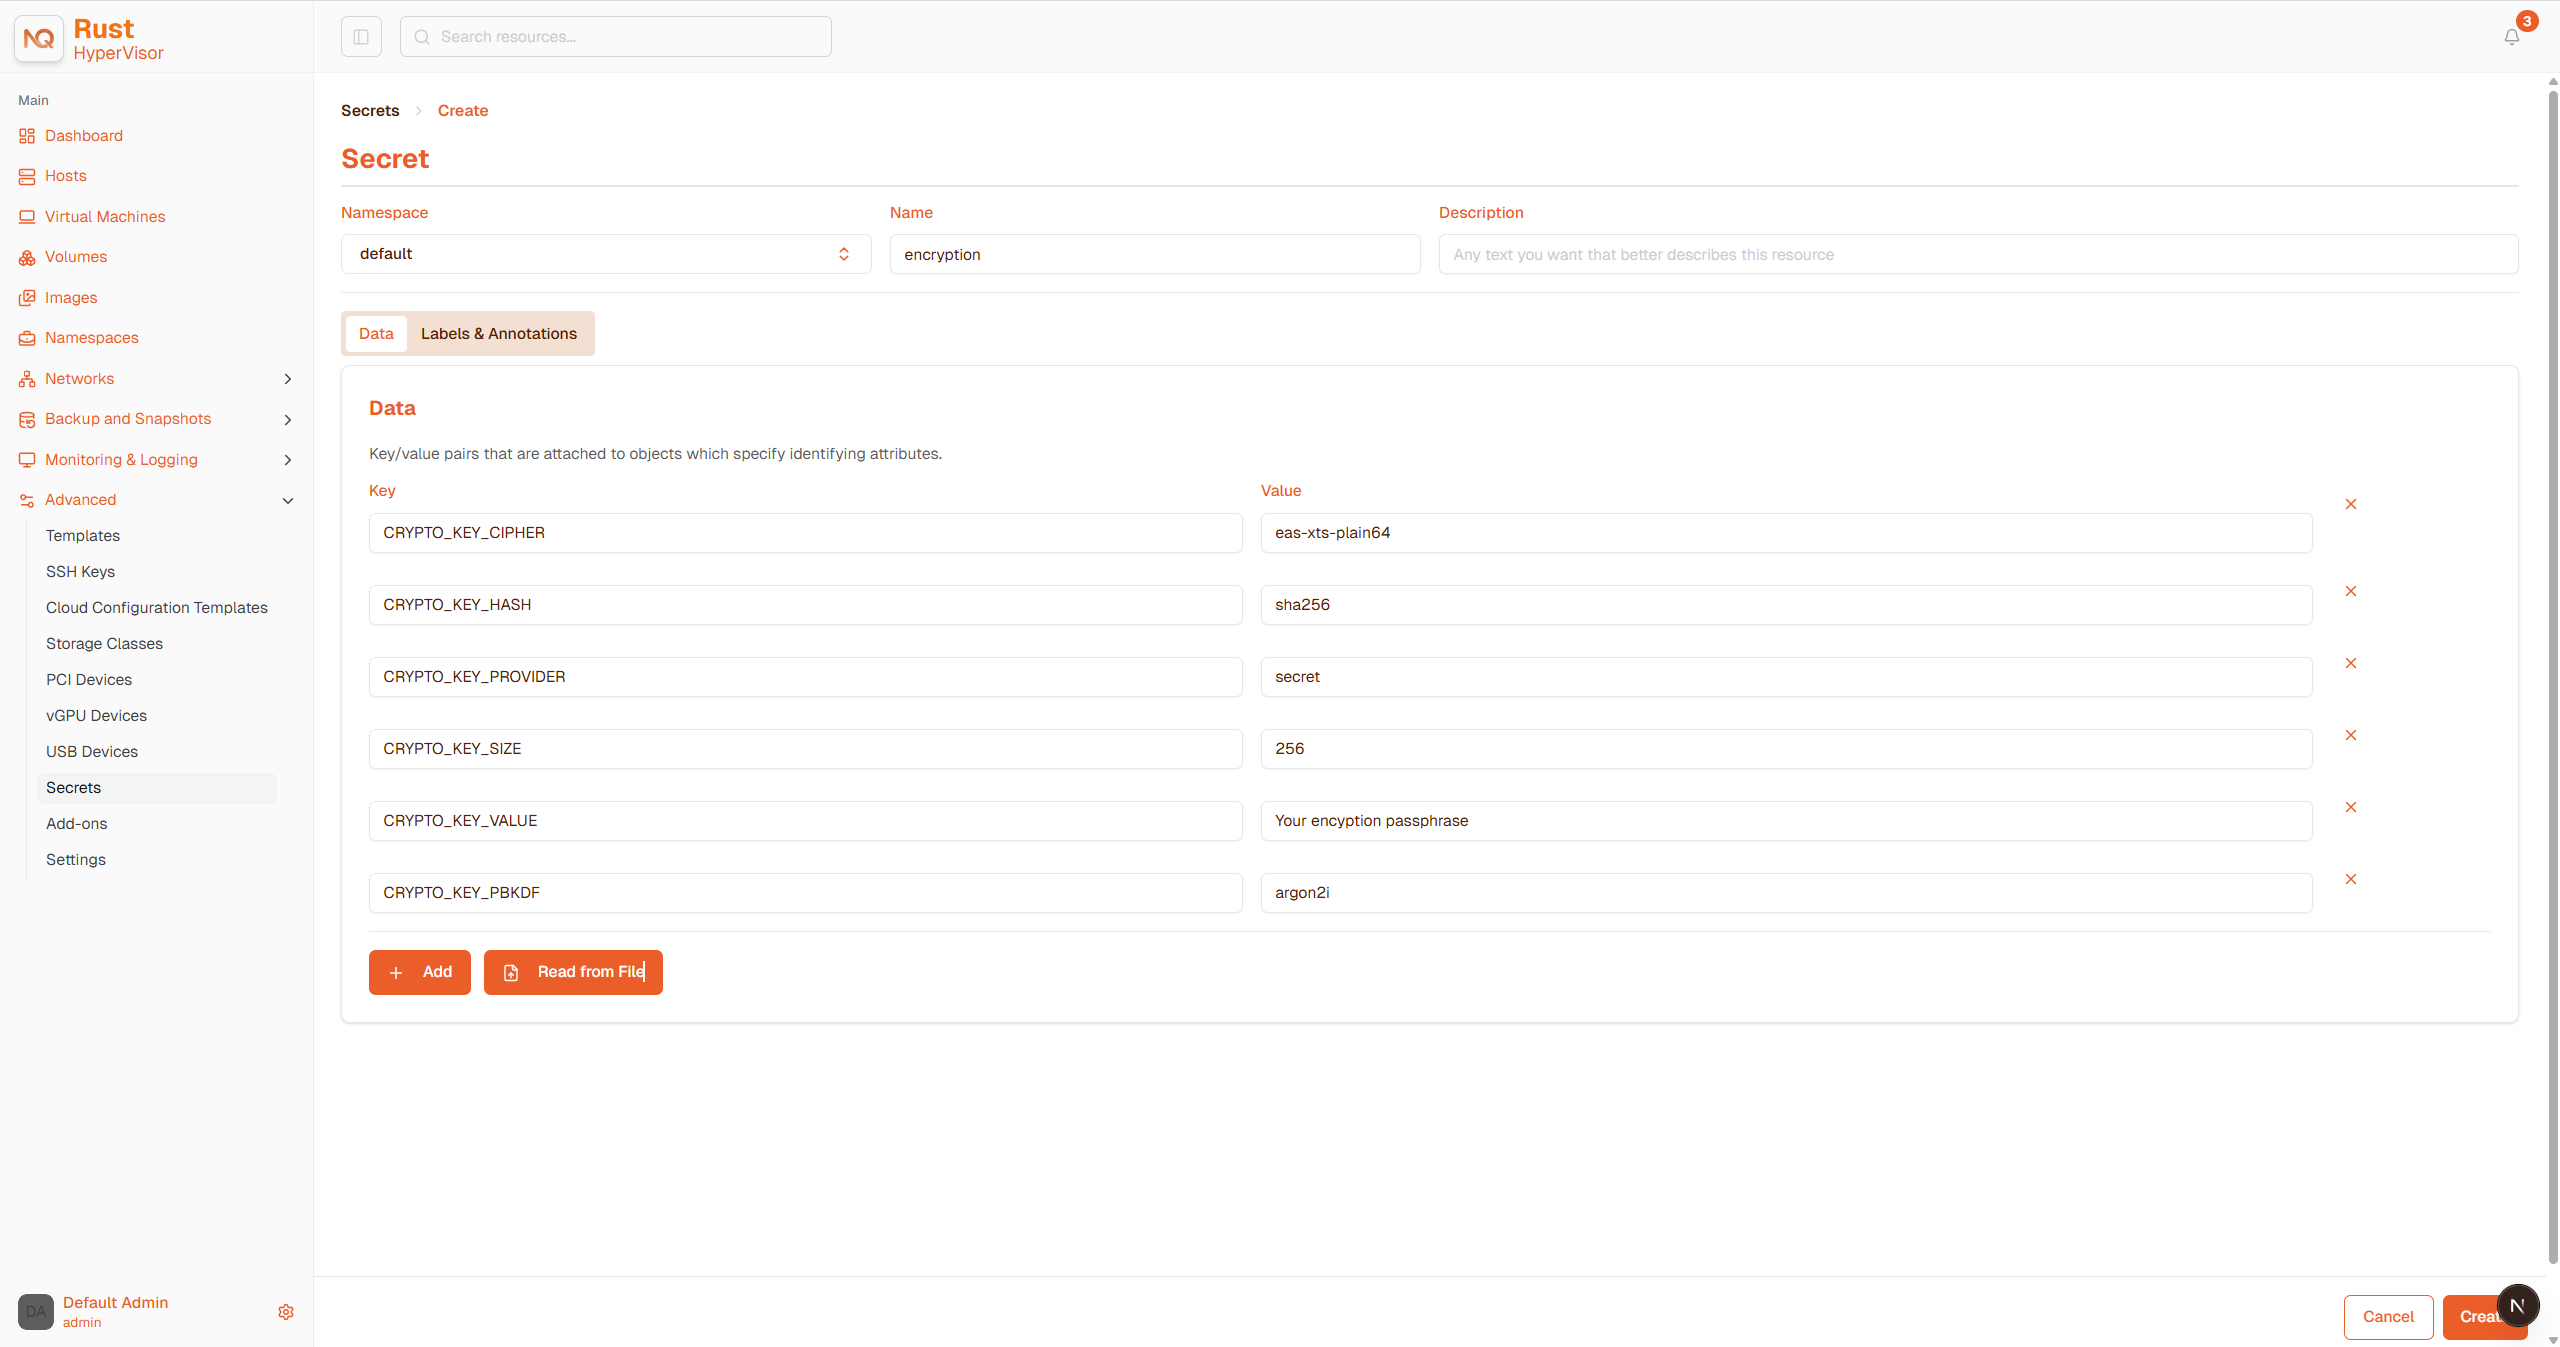
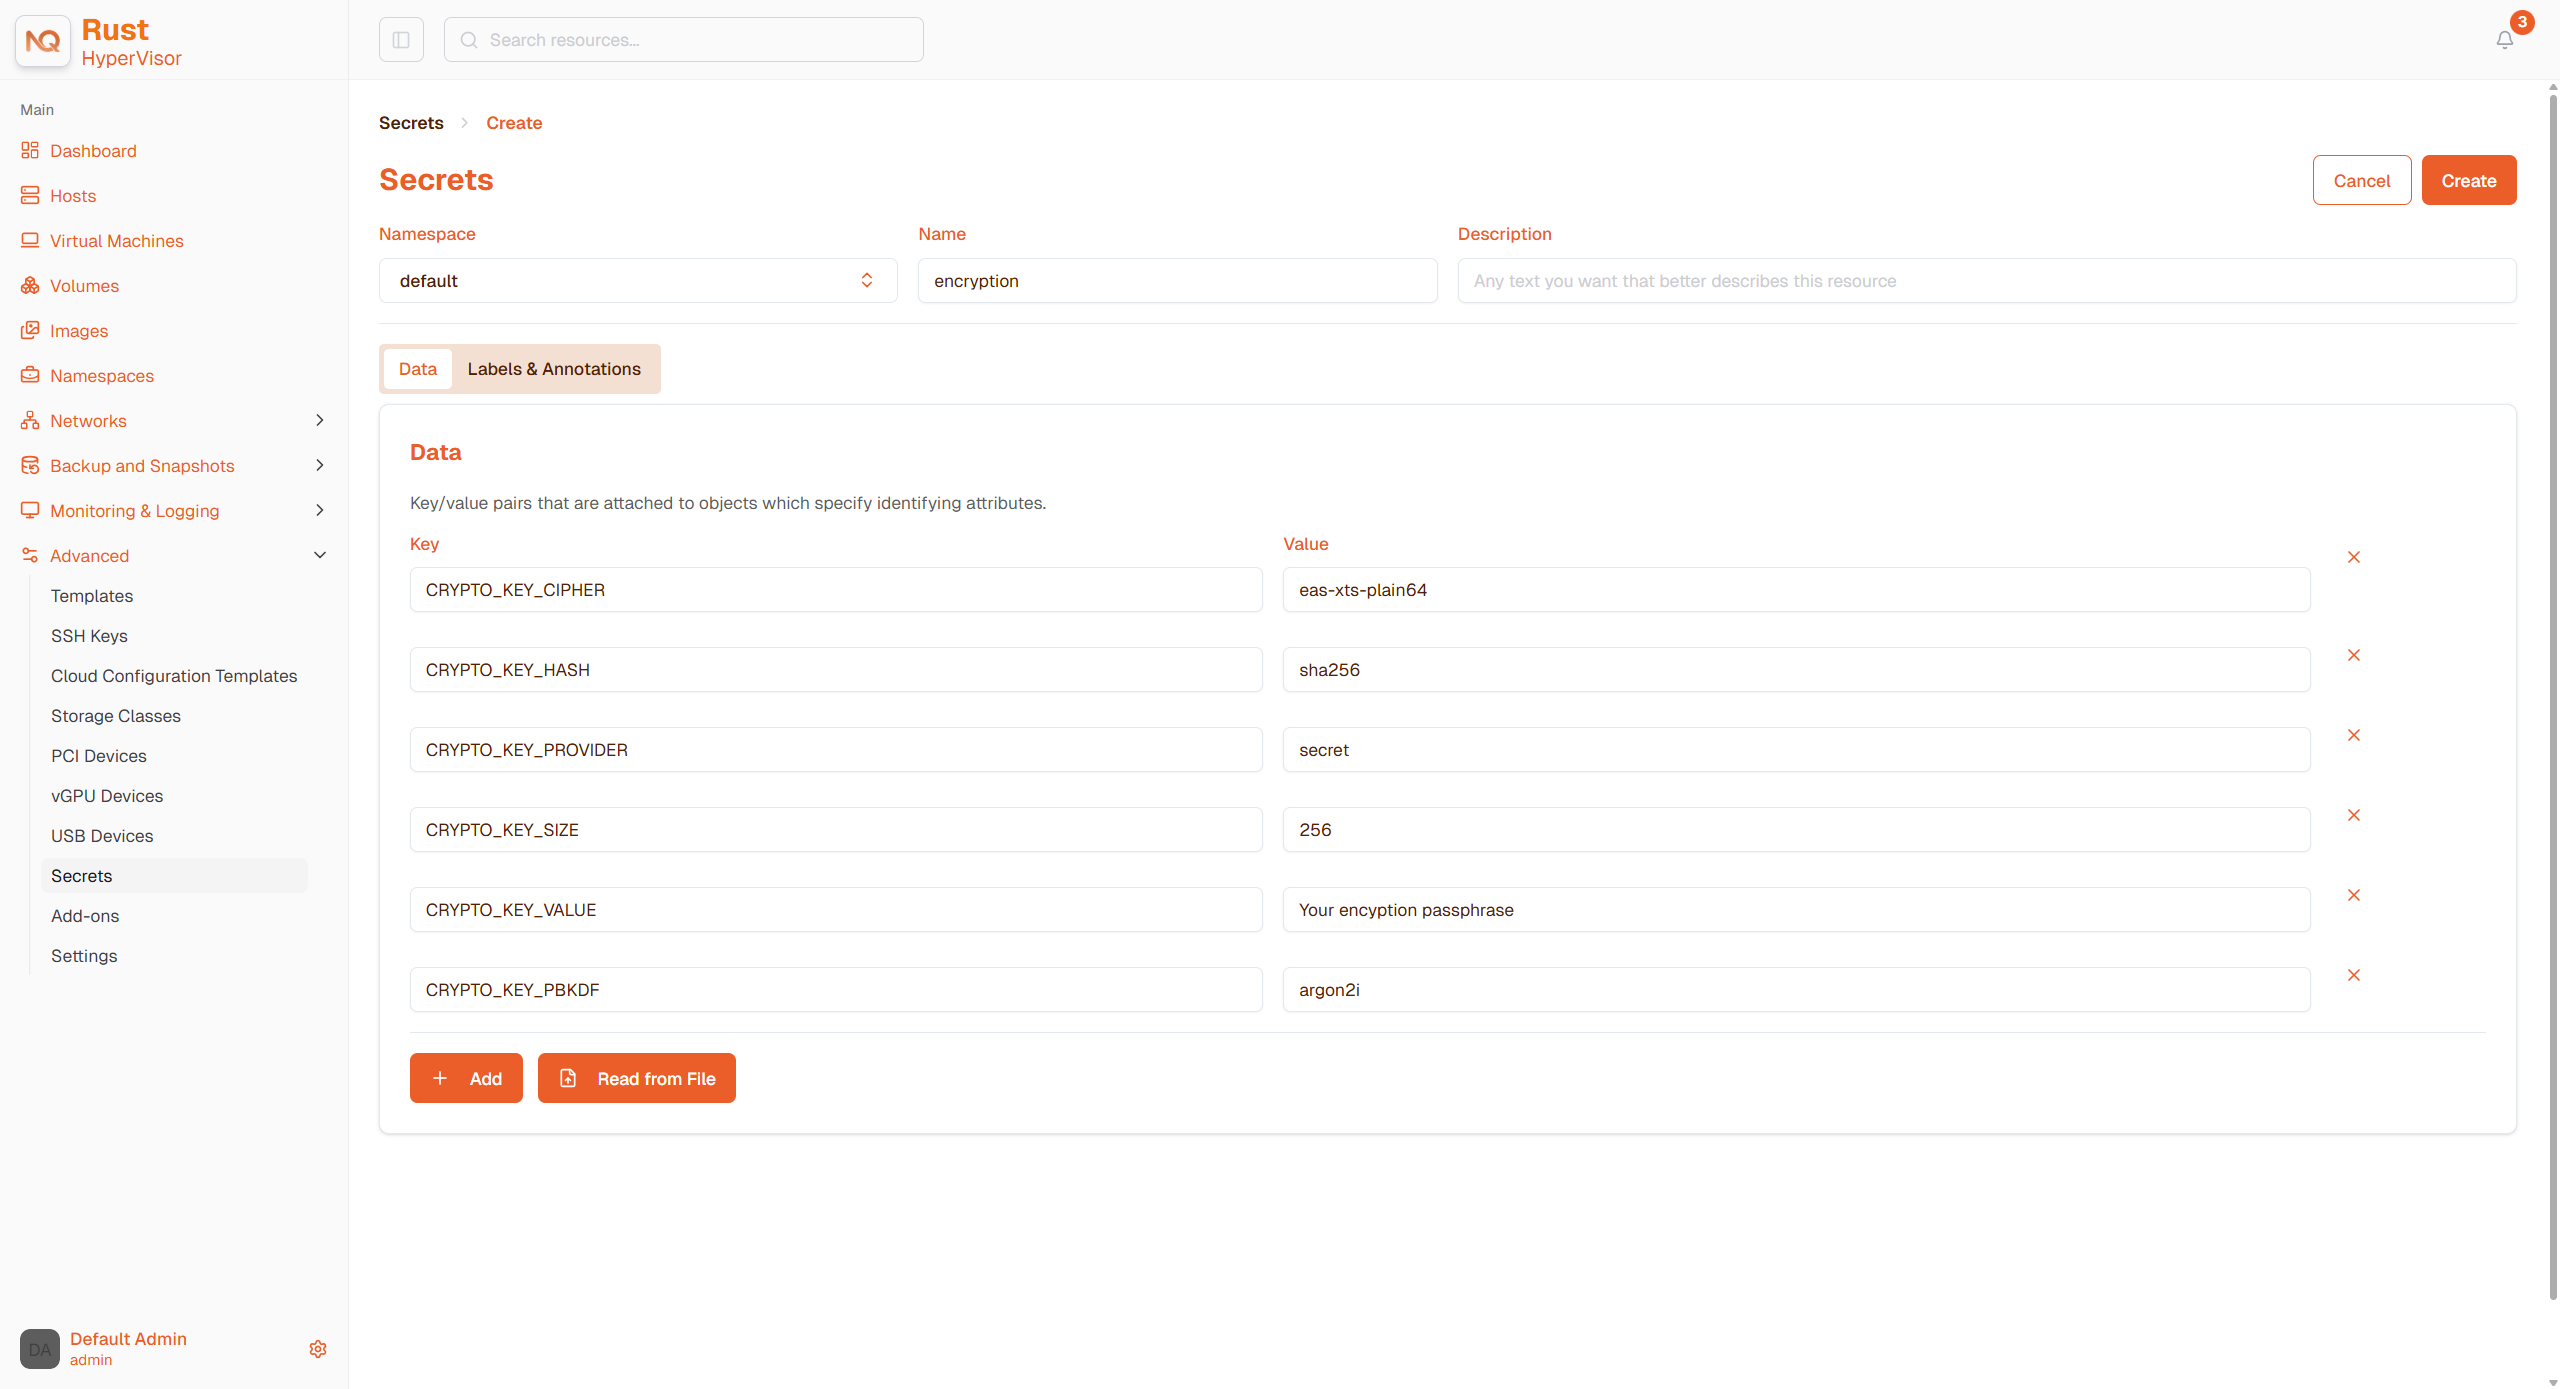
feat(images): add new images and update references from "Harvester" to "Hypervisor" in documentation

diff --git a/versioned_docs/version-v1.6/image/upload-image.md b/versioned_docs/version-v1.6/image/upload-image.md
@@ -4,7 +4,7 @@ sidebar_position: 1
 sidebar_label: Upload Images
 title: "Upload Images"
 keywords:
-  - Harvester
+  - Hypervisor
   - harvester
   - Rancher
   - rancher
@@ -34,7 +34,7 @@ To import virtual machine images in the **Images** page, enter a URL that can be
 
 ::: caution
 
-Large image files may cause memory issues in Harvester when you use third-party StorageClasses with download URLs that are hosted on servers that do not support HTTP range requests (for example, Python's `http.server`). For reliable downloads, use NGINX or Apache instead.
+Large image files may cause memory issues in Hypervisor when you use third-party StorageClasses with download URLs that are hosted on servers that do not support HTTP range requests (for example, Python's `http.server`). For reliable downloads, use NGINX or Apache instead.
 
 This issue is fixed in v1.6.1.
 
@@ -99,11 +99,11 @@ Currently, qcow2, raw, and ISO images are supported.
 
 You can upload images from the [**Multi-Cluster Management**](../rancher/virtualization-management.md#importing-harvester-cluster) screen on the **Rancher UI**. When the status of an image is *Uploading* but the progress indicator displays *0%* for an extended period, check the HTTP response status code. *413* indicates that the size of the request body exceeds the limit.
 
-![](/img/v1.3/img-413-code.png)
+![](/img/v1.3/image-hv/img-413-code.png)
 
 The maximum request body size should be specific to the cluster that is hosting Rancher (for example, RKE2 clusters have a default limit of 1 MB but no such limit exists in K3s clusters).
 
-The current workaround is to upload images from the **Harvester UI**. If you choose to upload images from the Rancher UI, you may need to configure related settings on the ingress server (for example, [`proxy-body-size`](https://kubernetes.github.io/ingress-nginx/user-guide/nginx-configuration/annotations/#custom-max-body-size) in NGINX).
+The current workaround is to upload images from the **Hypervisor UI**. If you choose to upload images from the Rancher UI, you may need to configure related settings on the ingress server (for example, [`proxy-body-size`](https://kubernetes.github.io/ingress-nginx/user-guide/nginx-configuration/annotations/#custom-max-body-size) in NGINX).
 
 If Rancher is deployed on an RKE2 cluster, perform the following steps:
 
@@ -116,7 +116,7 @@ If Rancher is deployed on an RKE2 cluster, perform the following steps:
 2. Specify a value for `nginx.ingress.kubernetes.io/proxy-body-size`.
 
   Example:
-  ![](/img/v1.3/img-ingress-client-body.png)
+  ![](/img/v1.3/image-hv/img-ingress-client-body.png)
 
 3. Delete the stuck image, and then restart the upload process.
 
@@ -126,7 +126,7 @@ If you upload a very large image (over 10 GB) from the **Multi-Cluster Managemen
 
 This behavior is related to *proxy-request-buffering* in the ingress configuration, which is also specific to the cluster that is hosting Rancher.
 
-The current workaround is to upload images from the **Harvester UI**. If you choose to upload images from the Rancher UI, you may need to configure related settings on the ingress server (for example, [`proxy-request-buffering`](https://nginx.org/en/docs/http/ngx_http_proxy_module.html#proxy_request_buffering) in NGINX).
+The current workaround is to upload images from the **Hypervisor UI**. If you choose to upload images from the Rancher UI, you may need to configure related settings on the ingress server (for example, [`proxy-request-buffering`](https://nginx.org/en/docs/http/ngx_http_proxy_module.html#proxy_request_buffering) in NGINX).
 
 If Rancher is deployed on an RKE2 cluster, perform the following steps:
 
@@ -139,13 +139,13 @@ If Rancher is deployed on an RKE2 cluster, perform the following steps:
 2. Turn off `nginx.ingress.kubernetes.io/proxy-request-buffering`.
 
   Example:
-  ![](/img/img-ingress-request-proxy-buffering.png)
+  ![](/img/v1.3/image-hv/img-ingress-request-proxy-buffering.png)
 
 3. Delete the stuck image, and then restart the upload process.
 
-#### Uploading Images Previously Downloaded from Harvester
+#### Uploading Images Previously Downloaded from Hypervisor
 
-Starting with **v1.5.5**, Longhorn [compresses backing images for downloading](https://github.com/longhorn/backing-image-manager/pull/153). If you attempt to upload a compressed backing image, Harvester rejects the attempt and displays the message **Upload failed: the uploaded file size xxxx should be a multiple of 512 bytes since Longhorn uses directIO by default** because the compressed data violates Longhorn's data alignment.
+Starting with **v1.5.5**, Longhorn [compresses backing images for downloading](https://github.com/longhorn/backing-image-manager/pull/153). If you attempt to upload a compressed backing image, Hypervisor rejects the attempt and displays the message **Upload failed: the uploaded file size xxxx should be a multiple of 512 bytes since Longhorn uses directIO by default** because the compressed data violates Longhorn's data alignment.
 
 Before uploading, decompress backing images using the command `$ gzip -d <file name>`.
 
@@ -153,7 +153,7 @@ Before uploading, decompress backing images using the command `$ gzip -d <file n
 
 On the **Volumes** page, click **Export Image**. Enter the image name and select a StorageClass to create an image.
 
-![](/img/v1.2/volume/export-volume-to-image-1.png)
+![](/img/v1.3/image-hv/export-volume-to-image-1.png)
 
 ### Image StorageClass
 
@@ -163,11 +163,11 @@ When creating an image, you can select a [StorageClass](../advanced/storageclass
 
 The image will not use the `StorageClass` selected here directly. It's just a `StorageClass` template.
 
-Instead, it will create a special StorageClass under the hood with a prefix name of `longhorn-`. This is automatically done by the Harvester backend, but it will inherit the parameters from the StorageClass you have selected.
+Instead, it will create a special StorageClass under the hood with a prefix name of `longhorn-`. This is automatically done by the Hypervisor backend, but it will inherit the parameters from the StorageClass you have selected.
 
 :::
 
-![](/img/v1.2/image-storageclass.png)
+![](/img/v1.3/image-hv/image-storageclass.png)
 
 ### Image Labels
 

diff --git a/versioned_docs/version-v1.6/image/image-security.md b/versioned_docs/version-v1.6/image/image-security.md
@@ -4,7 +4,7 @@ sidebar_position: 2
 sidebar_label: Image Security
 title: "Image Security"
 keywords:
-  - Harvester
+  - Hypervisor
   - harvester
   - Rancher
   - rancher
@@ -17,7 +17,7 @@ keywords:
 
 _Available as of v1.4.0_
 
-Harvester allows you to encrypt and decrypt virtual machine images. The encryption mechanism utilizes the Linux kernel module dm_crypt and the command-line utility cryptsetup.
+Hypervisor allows you to encrypt and decrypt virtual machine images. The encryption mechanism utilizes the Linux kernel module dm_crypt and the command-line utility cryptsetup.
 
 :::note
 
@@ -60,7 +60,7 @@ Prepare the following resources:
 
   :::info important
 
-  The example contains the default YAML code for Kubernetes secrets. Aside from this, you can use [encryption options for LUKS mode](https://wiki.archlinux.org/title/Dm-crypt/Device_encryption#Encryption_options_for_LUKS_mode), which is a cryptsetup operating mode. Harvester v1.4.1 and later versions support these options, but you must verify that these are supported by your nodes.
+  The example contains the default YAML code for Kubernetes secrets. Aside from this, you can use [encryption options for LUKS mode](https://wiki.archlinux.org/title/Dm-crypt/Device_encryption#Encryption_options_for_LUKS_mode), which is a cryptsetup operating mode. Hypervisor v1.4.1 and later versions support these options, but you must verify that these are supported by your nodes.
 
   | Option | Possible Values |
   | --- | --- |
@@ -69,7 +69,7 @@ Prepare the following resources:
   | CRYPTO_KEY_SIZE | 256, 384, 512 |
   | CRYPTO_PBKDF | argon2i, argon2id, pbkdf2 |
 
-  You can create a secret in the system namespace using kubectl or the Harvester UI (**Edit as YAML** feature). Resources in the system namespace are not displayed on the Harvester UI **Secrets** screen.
+  You can create a secret in the system namespace using kubectl or the Hypervisor UI (**Edit as YAML** feature). Resources in the system namespace are not displayed on the Hypervisor UI **Secrets** screen.
   :::
 
 - StorageClass: Images are encrypted using Longhorn, so required fields must be passed to the Longhorn CSI Driver. You can specify the encryption secret when creating a StorageClass. For more information, see [Image StorageClass](./upload-image#image-storageclass). 
@@ -102,13 +102,13 @@ Prepare the following resources:
 
   :::info important
 
-  You can create a secret in the system namespace using the Harvester UI (**Edit as YAML** feature) and kubectl. Resources in the system namespace are not displayed on the Harvester UI **Secrets** screen.
+  You can create a secret in the system namespace using the Hypervisor UI (**Edit as YAML** feature) and kubectl. Resources in the system namespace are not displayed on the Hypervisor UI **Secrets** screen.
 
   :::
 
 ## Encrypt a Virtual Machine Image
 
-1. On the Harvester UI, go to **Images**.
+1. On the Hypervisor UI, go to **Images**.
 
 1. Click **Create**.
 
@@ -116,19 +116,19 @@ Prepare the following resources:
 
 1. On the **Basics** tab, select **Encrypt** and then select a source image.
 
-  ![](/img/v1.4/image/create-encrypted-image.png)
+  ![](/img/v1.3/image-hv/create-encrypted-image.png)
 
 1. On the **Storage** tab, select a StorageClass that includes encryption-related fields. 
 
-  Harvester passes the required fields to Longhorn.
+  Hypervisor passes the required fields to Longhorn.
 
-  ![](/img/v1.4/image/select-encryption-storage-class.png)
+  ![](/img/v1.3/image-hv/select-encryption-storage-class.png)
 
 1. Click **Create**.
 
 ## Decrypt a Virtual Machine Image
 
-1. On the Harvester UI, go to **Images**.
+1. On the Hypervisor UI, go to **Images**.
 
 1. Click **Create**.
 
@@ -136,13 +136,13 @@ Prepare the following resources:
 
 1. On the **Basics** tab, select **Decrypt** and then select a source image.
 
-  ![](/img/v1.4/image/create-decrypted-image.png)
+  ![](/img/v1.3/image-hv/create-decrypted-image.png)
 
 1. On the **Storage** tab, select **harvester-longhorn (Default)** or another commonly used StorageClass.
 
-  Harvester uses the StorageClass of the source image that you want to decrypt.
+  Hypervisor uses the StorageClass of the source image that you want to decrypt.
 
-  ![](/img/v1.4/image/select-normal-storage-class.png)
+  ![](/img/v1.3/image-hv/select-normal-storage-class.png)
 
 1. Click **Create**.
 
@@ -150,17 +150,17 @@ Prepare the following resources:
 
 You must select the image that you want to use when creating a virtual machine.
 
-![](/img/v1.4/image/create.png)
+![](/img/v1.3/image-hv/create.png)
 
 The **Virtual Machines** screen displays the following icons and messages when volumes used by virtual machines are encrypted.
 
-![](/img/v1.4/image/case1.png)
+![](/img/v1.3/image-hv/case1.png)
 
-![](/img/v1.4/image/case2.png)
+![](/img/v1.3/image-hv/case2.png)
 
 To determine which volumes are encrypted, check the **Volumes** tab on the **Virtual Machine** details screen.
 
-![](/img/v1.4/image/volume-detail.png)
+![](/img/v1.3/image-hv/volume-detail.png)
 
 ## Advanced Usage with Rancher Integration
 
